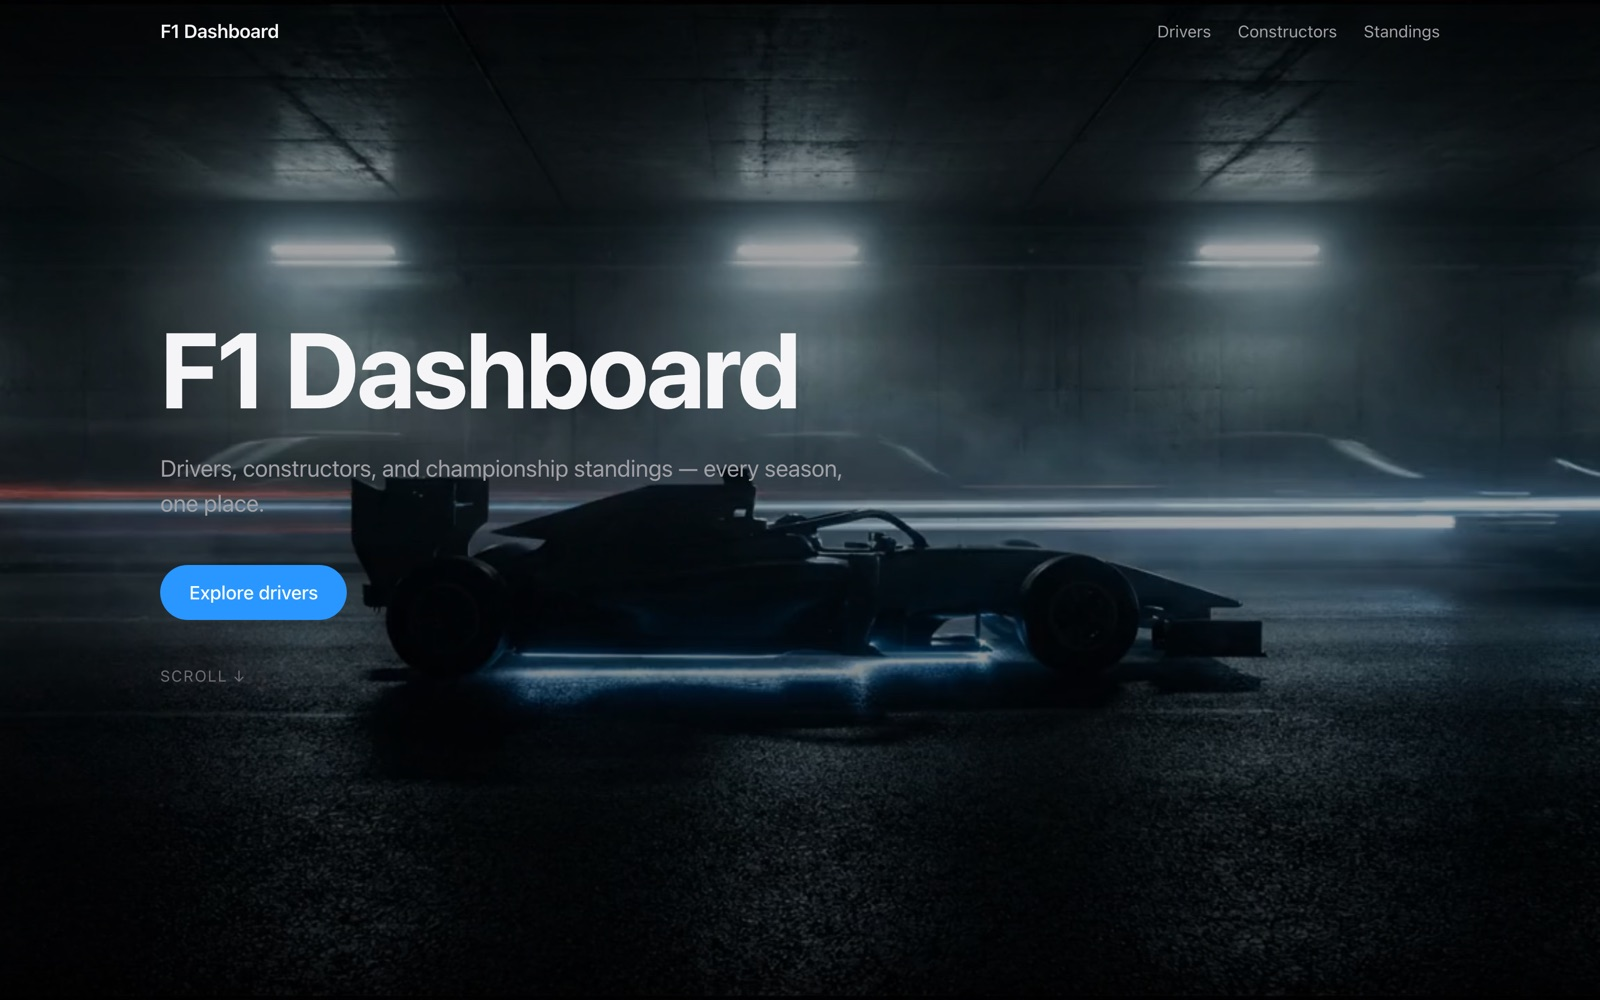
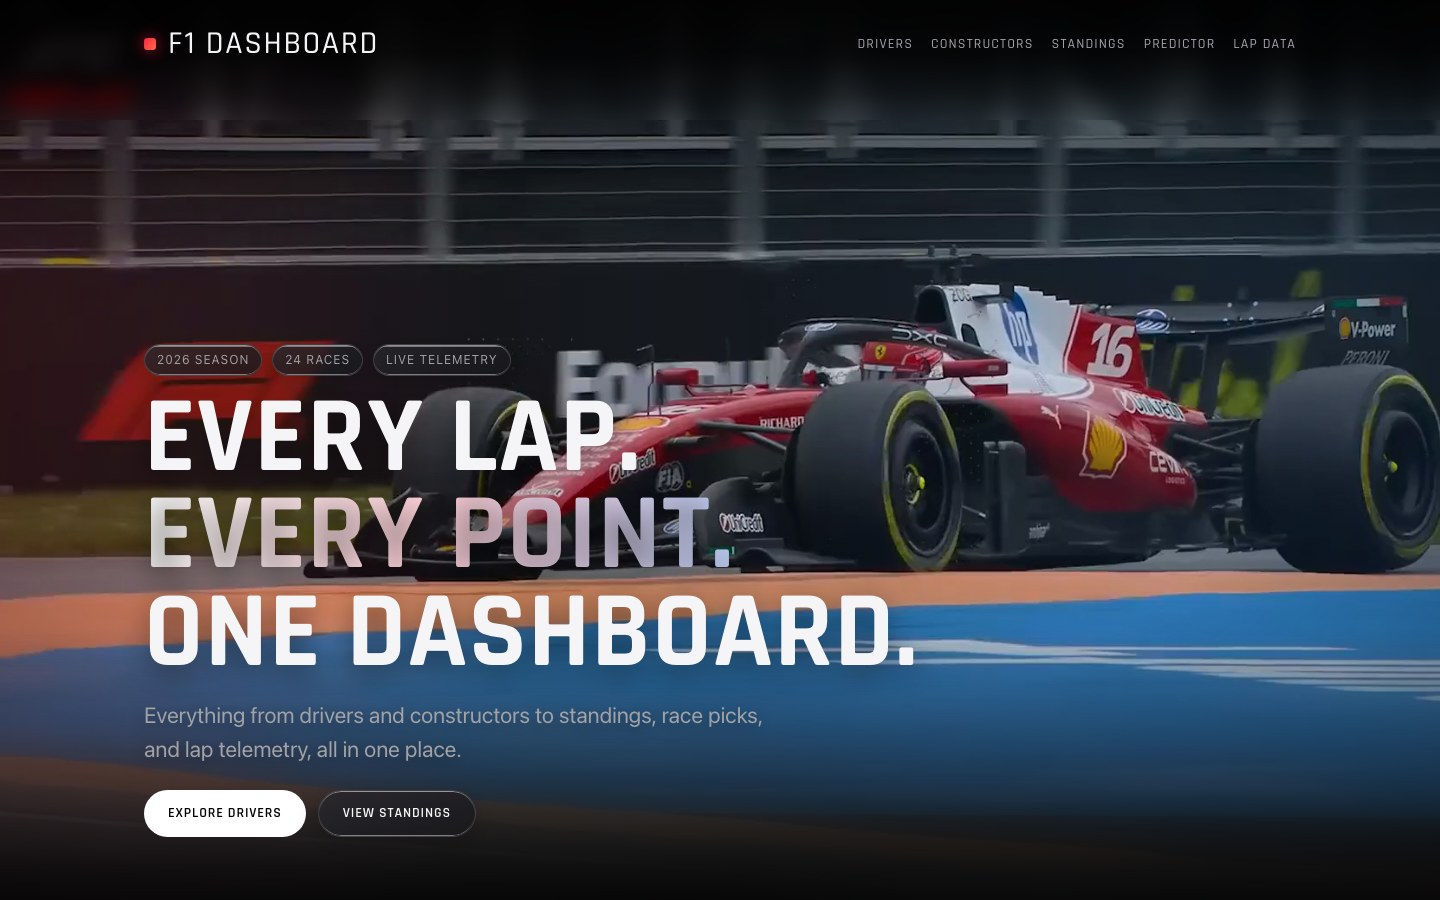
Refresh README screenshots and document new features
Replace the four old screenshots with fresh captures of the live app
(landing, standings, predictor podium, and the new lap-telemetry view),
and update the copy: standings now note sprint points and the countback
tiebreaker, the API table lists the telemetry status endpoint, and the
scheduled data-refresh action is mentioned.

diff --git a/README.md b/README.md
@@ -4,19 +4,21 @@ A full-stack Formula 1 analytics dashboard — browse drivers, constructors, and
 
 ### ▶︎ Live demo: **[f1-dashboard-dusky-sigma.vercel.app](https://f1-dashboard-dusky-sigma.vercel.app)**
 
-> Hosted on free tiers — the API may take ~30–60s to wake on the first request if it has been idle.
+> Hosted on free tiers. A scheduled ping keeps the API warm, but the first request after a long idle period may still take ~30–60s to wake.
 
 ![F1 Dashboard landing page](docs/landing.jpg)
 
-![Race winner predictor grading a completed race against the actual podium](docs/predictor.png)
+![Championship standings](docs/standings.jpg)
 
-*Race winner predictor — for a completed race, the model's pick is graded against the real result (it called Qatar 2024 for Verstappen, who won).*
+*Driver and constructor standings — points include sprint races, and ties are broken by countback, so the table matches the official one exactly.*
 
-![Race winner predictor projecting an upcoming race before qualifying](docs/predictor-upcoming.png)
+![Race winner predictor](docs/predictor.jpg)
 
-*Upcoming races have no qualifying yet, so a separate grid-free model projects the podium from current form.*
+*Race winner predictor — an ML.NET model ranks each driver's win probability and projects the podium; for completed races it grades its pick against the real result.*
 
-![Standings page](docs/standings.png)
+![Lap telemetry replay](docs/lap-data.jpg)
+
+*Lap Data — replay any lap on an interactive track map with sector times and a speed trace, built from FastF1 telemetry.*
 
 ## Stack
 
@@ -42,7 +44,8 @@ flowchart LR
 - Cinematic landing page with scroll-scrubbed hero video and reduced-motion fallback poster.
 - Drivers and constructors listings.
 - Driver **and** constructor championship standings with a season selector (2023–2026) and a Drivers/Constructors toggle.
-- Standings computed server-side from race results (points aggregated per driver/constructor).
+- Standings computed server-side and matching the official table — points include **sprint races**, and ties are broken by **countback** (most wins, then 2nds, then 3rds…).
+- Data refreshes from upstream after each race weekend via a scheduled GitHub Action (`.github/workflows/refresh-data.yml`).
 - **Race winner predictor (ML.NET):** ranks every driver's win probability for any Grand Prix and animates the projected podium as team-colored cars crossing the finish line. For past races it reveals a ✓/✗ verdict against the actual winner; **upcoming races are predicted too** with a separate, grid-free model over the current lineup.
 - **Lap telemetry tab:** season/race/driver/lap selection, map replay, speed trace, sector splits, and side-by-side lap compare.
 - One-command race-result import plus telemetry ingestion tools.
@@ -72,6 +75,7 @@ Base URL (local dev): `http://localhost:5197`. Interactive docs (Scalar) at `/sc
 | GET | `/api/lap-data/races/{raceId}/drivers/{driverId}/laps` | Laps available for a driver |
 | GET | `/api/lap-data/laps/{lapId}` | Detailed telemetry for one lap |
 | POST | `/api/import/telemetry?seasons={csv}&force={bool}` | Start a background FastF1 telemetry ingest (Development / `AllowImport` only) |
+| GET | `/api/import/telemetry/status` | Telemetry row counts and whether an ingest is running (Development / `AllowImport` only) |
 
 ## Race winner predictor
 